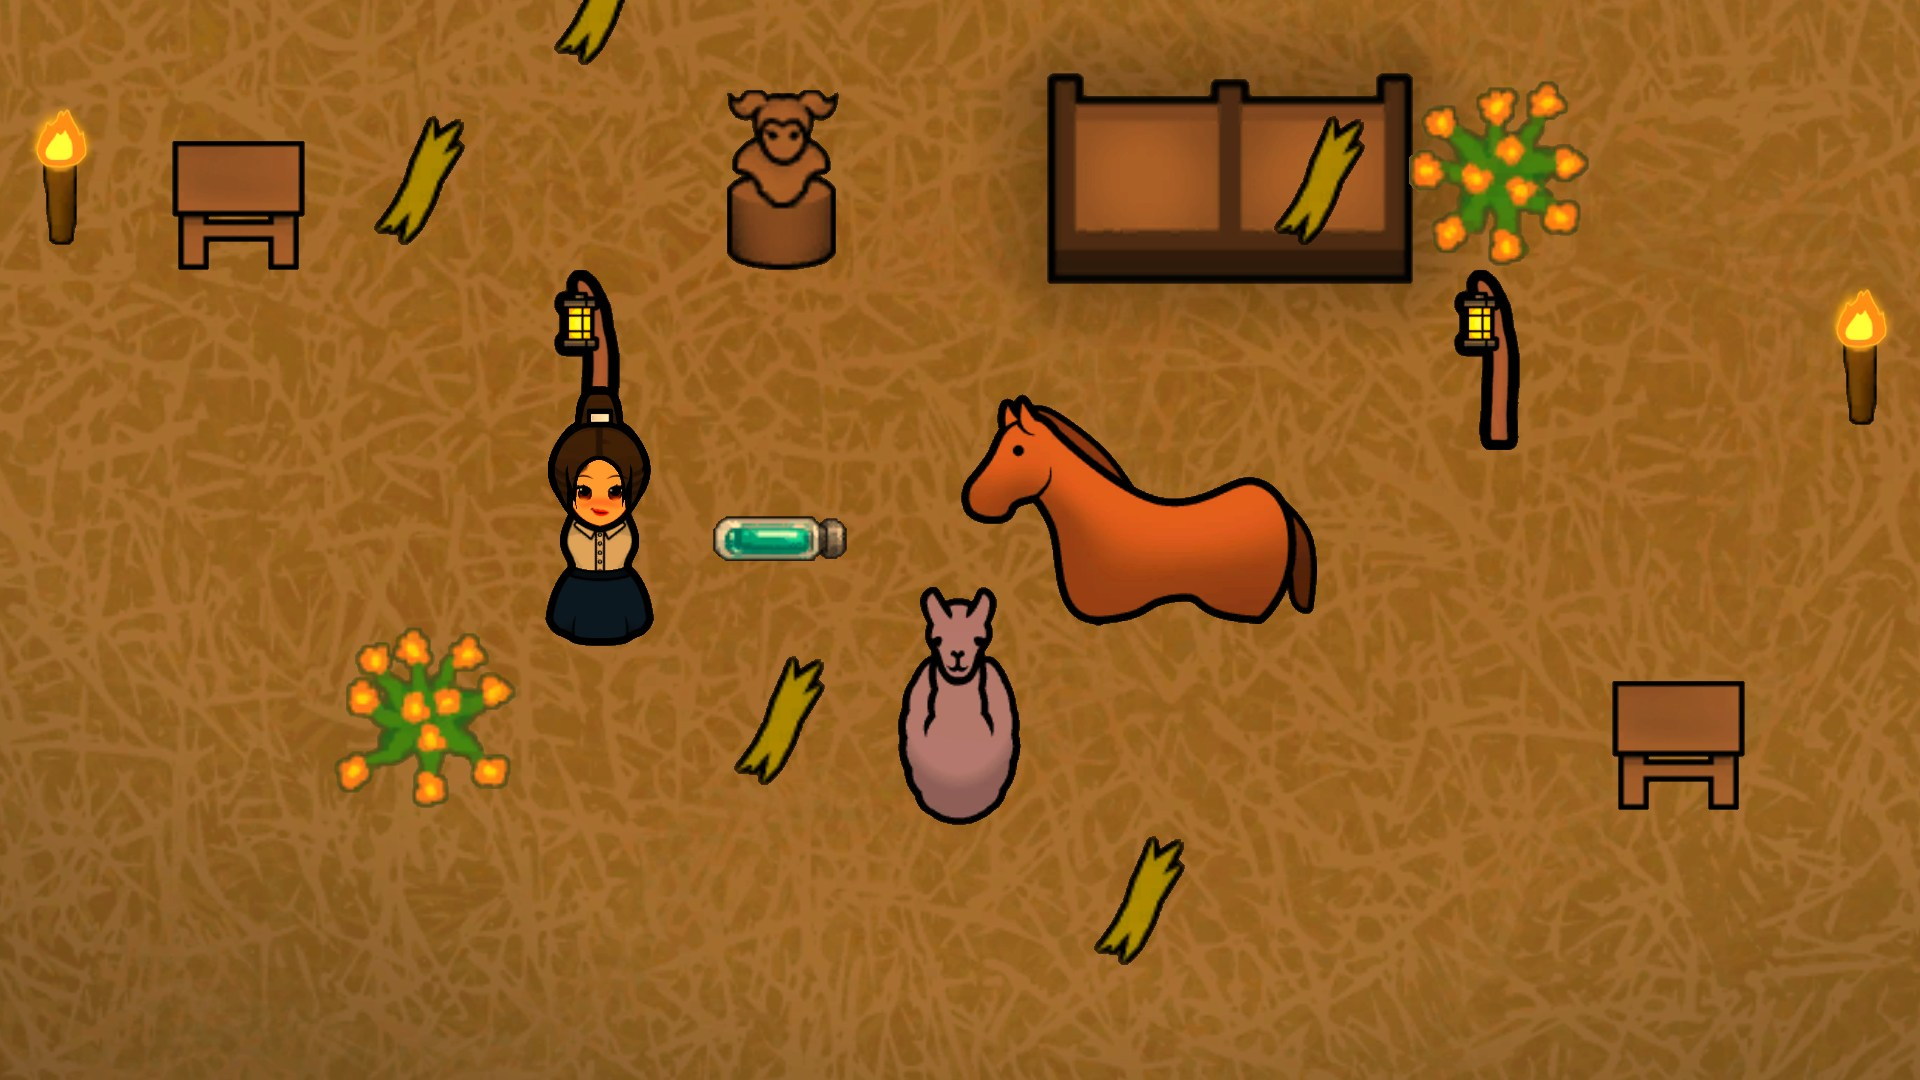
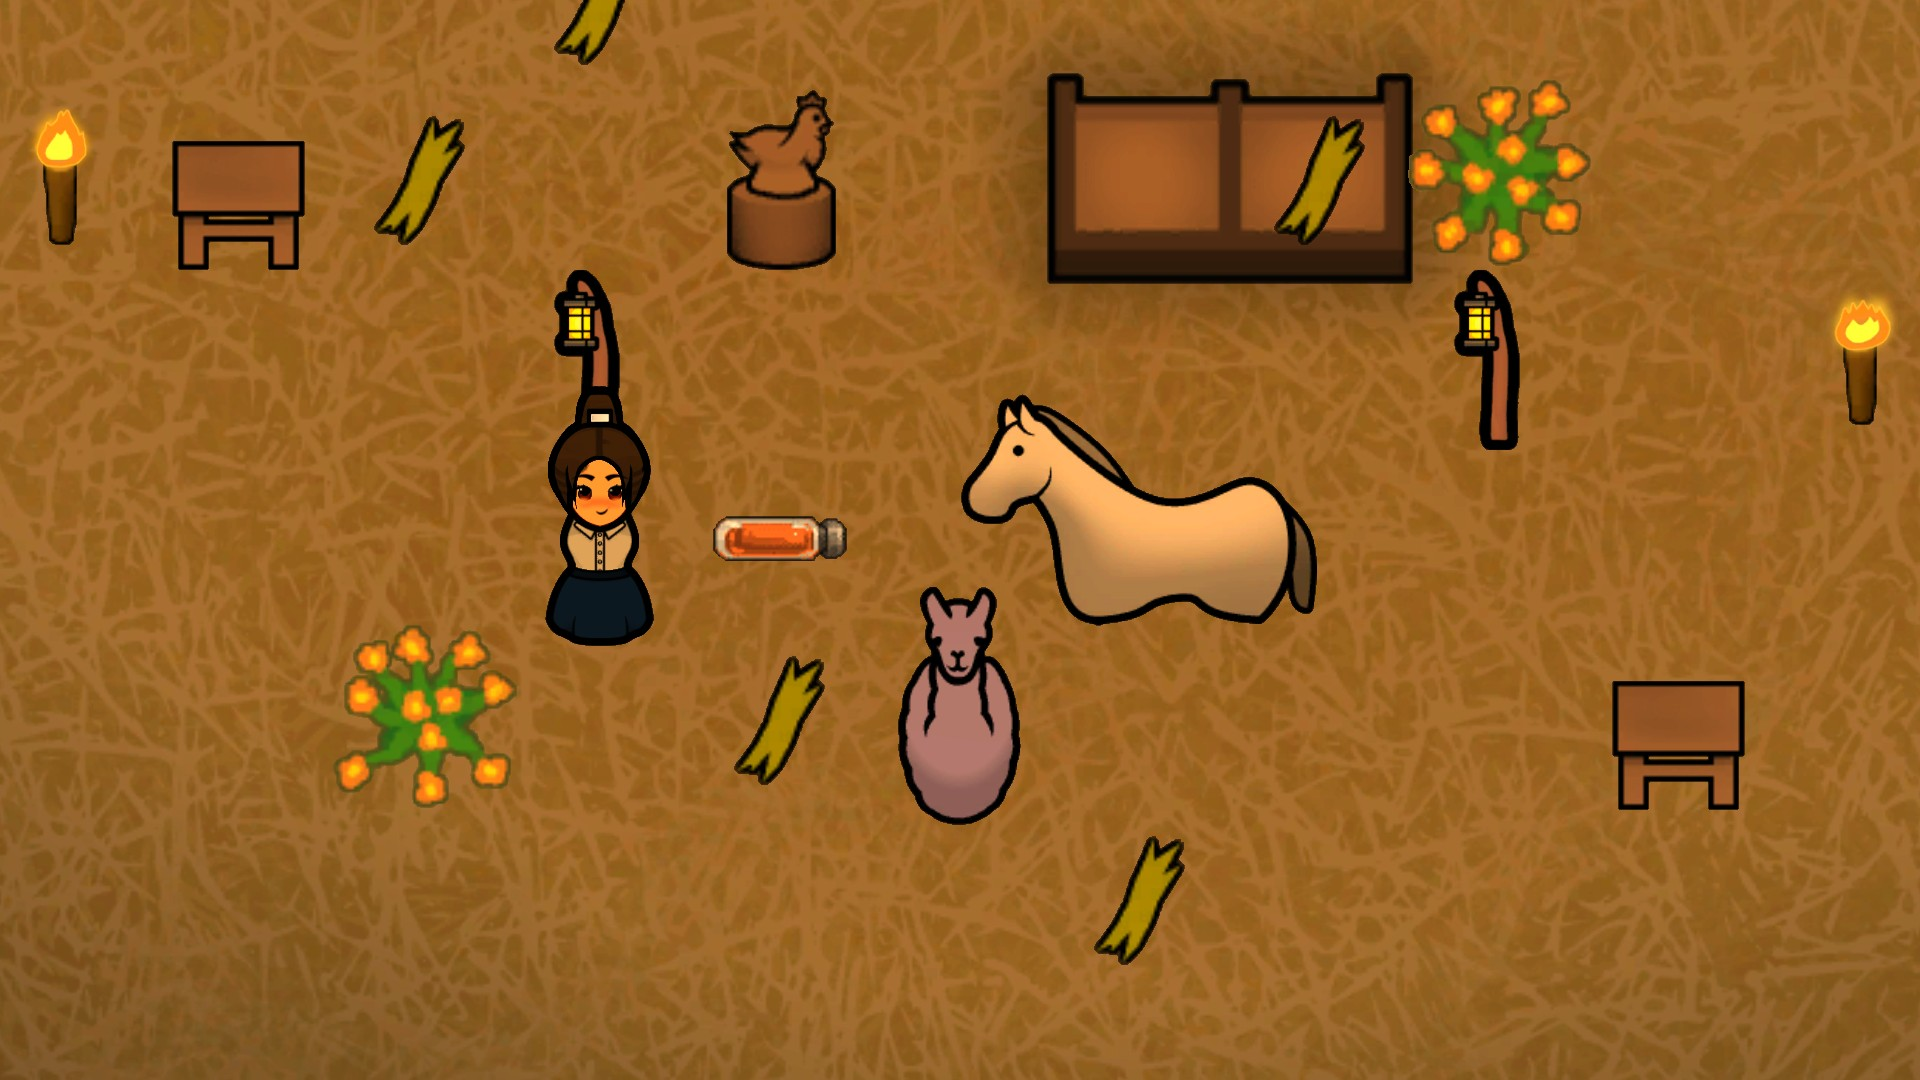
1.2.0 gallery: shot 4 redone with the orange vial

diff --git a/STATUS.md b/STATUS.md
@@ -20,7 +20,7 @@ published: yes
 tested_on: "2026-11-07 French at 7965f0d (tickets d580 and 8554, acg-serum-bench-chain-fr and acg-serum-second-tint-refused-fr, proofs deleted 2026-11-13, superseded by Evidence/nonreg-110-fr) and 2026-11-07 at 66f5590 (Pickle ticket 0691 green 8 of 8, English, acg-marking: acg-chest-patch-kuroneko, acg-coat-thrumbo, acg-coat-labrador, acg-coat-panther, acg-gene-tint-thrumbo, acg-serum-second-tint-refused, acg-serum-bench-recipe, acg-serum-bench-look; captures read: chest patch on Kuru1, thrumbo tinted; no ACG error in Player.log; Source/Mod unchanged since 2a3846c; proof deleted 2026-11-13, superseded by Tests/Pickle/Evidence/nonreg-110-en) and 2026-11-06 at 2a3846c (automated: unit tests AtsRules pass, build SAME 0 warnings, Check-Translations PASS, Check-Steps clean, Test-Mod.ps1 6 of 6). Pickle last green 2026-11-02 at 4616d5f (tickets 6184, 7f31, 6146, 6c3b, ba7f, 0f31, 989d, 8805, 6352, 0b9d) and 2026-11-06 gene-ui English and French (9615, c68d); Source changed since in 1c5278d (refusal reasons Keyed), replay due at playTests"
   - "2026-11-12 (14.a non-regression of the published 1.1.0 DONE, green, 1.6, read summary.json each): ticket c6b2 English 9 of 9 (acg-load-clean, chest-patch-kuroneko, coat-thrumbo, coat-labrador, coat-panther, gene-tint-thrumbo, serum-apply, serum-bench-recipe, serum-bench-look) and ticket d5d0 French 2 of 2 (acg-serum-second-tint-refused-fr, acg-serum-bench-chain-fr), both exit passed, no ACG error in Player.log. Evidence moved from Inbox to Tests/Pickle/Evidence/nonreg-110-en and nonreg-110-fr (Prune-Evidence -Apply); 14.c DONE 2026-11-13 and the WSL cleanup (PiI, see remaining) (TESTING.md rewritten to the current revision, 1.0.0 release note moved to Docs/runs/2026-11-13-release-notes.md, no Art/archive, no BACKLOG file, only main branch; Prune-Evidence dry run, 8 superseded folders older than the last code commit deleted, none named by STATUS any more, RELEASE.md added to nonreg-110-en and nonreg-110-fr, Evidence 2.0 MB, 0 folder over target). Left in followUp[1.1.0]: 14.e dormant, subscribe-test 13.b on 1.6 and 1.7, Workshop tags check, collection RimWorld through Nelim eyes (AUDIT.md 13.c, 13.f: not recorded for 1.0.0, ask Virginie)."
 remaining:
-  - "2026-11-13 (shot 4 redo): gallery 4-horse.jpg shows the old turquoise vial but 1.2.0 draws an orange vial (gene Skin_Orange); shots 1, 2 use ACG_ChestPatch (turquoise fallback, unchanged), keep. Ticket c96c filed at a68cf10 (acg-gallery-4-horse, map wsl-deps.acg-gallery.map, evidence Tests/Pickle/Inbox/gallery-4-vial), WAITING. At RUN_DONE: read summary.json and capture, put the clean image in Art/Gallery-clean/4-horse.jpg, subtitle with Add-Subtitle.ps1 into Art/Gallery/4-horse.jpg (candidate until Virginie accepts), then 9.d to 9.f."
+  - "2026-11-13 (shot 4 redo DONE, ticket c96c green 1 of 1, 42 s, capture read: orange vial, untreated pale horse, alpaca, Nelim; clean copy Art/Gallery-clean/4-horse.jpg, subtitled Art/Gallery/4-horse.jpg 'Next in line: the barn horse.'; inbox folder deleted, image kept in Art). Waiting Virginie look at 4-horse.jpg (9.d accept), then 9.f mountPreview. Shots 1, 2 use ACG_ChestPatch (turquoise vial unchanged), keep."
   - "2026-11-13 (playTests 1.2.0 DONE, shootGallery[1.2.0]): 8.m code review of fa88ffef..0ca90751 read (Source/AnimalTraitSerum.cs DrawColor, own cached Graphic, null-safe TraitFor; Serum.xml shaderType; textures): no defect, code_review_sha moved. 8.l tested_on: 2026-11-13 ticket e7e1 green 1 of 1 acg-serum-tint-look at 604e0cb, Evidence/serum-tint-look. TRANSLATION_REVIEW.md regenerated (Serum.xml comment only, no text change). Gallery shots 1 (bench) and 4 (horse) may show the old turquoise vial: check the six images, redo those shots if the vial is visible (scenario edit, ticket), else keep; then 9.d to 9.f, Preview badge unchanged (1.7 already declared). Non-regression 14.a EN and FR after the final commit."
   - "2026-11-13 (13.b subscribe-test DONE, PiI, owner account, Steam success:1): item 3837162966 downloaded, About.xml modVersion 1.1.0, packageId nelim.animalcosmeticgenes, supportedVersions 1.6 1.7, dependencies luved.animaltraits and Ludeon.RimWorld.Biotech, PublishedFileId.txt 3837162966, 31 files identical to Mod/, AnimalCosmeticGenes.dll sha256 a7f262b92b98 same as local. Owed after every upload (Virginie, 2026-11-13, AUDIT 13.b), PiI does it. 14.a, 14.c, 14.e done: dormant."
   - "2026-11-13 (Ecosystem, PiI e4ad269, docs/inventory/ecosystem-steam/AnimalCosmeticGenes.md, sources: Steam by Chrome + corpus same-classify): no duplicate, no fork, no replacement, no patch/retexture/translation of ACG found. Neighbours only, different functions: Animal Genes 3510541507 (Ingendum, 1.6), Animal Traits System 3652630316 (Luved, 1.6 1.7, our framework), Vanilla Animal Voice Genes 3639550391 (Pacca, 1.6). Nothing to play in 8.f, nothing for CHANGELOG. Replaces the 2026-11-12 'none found' line and the WAITING line above."
